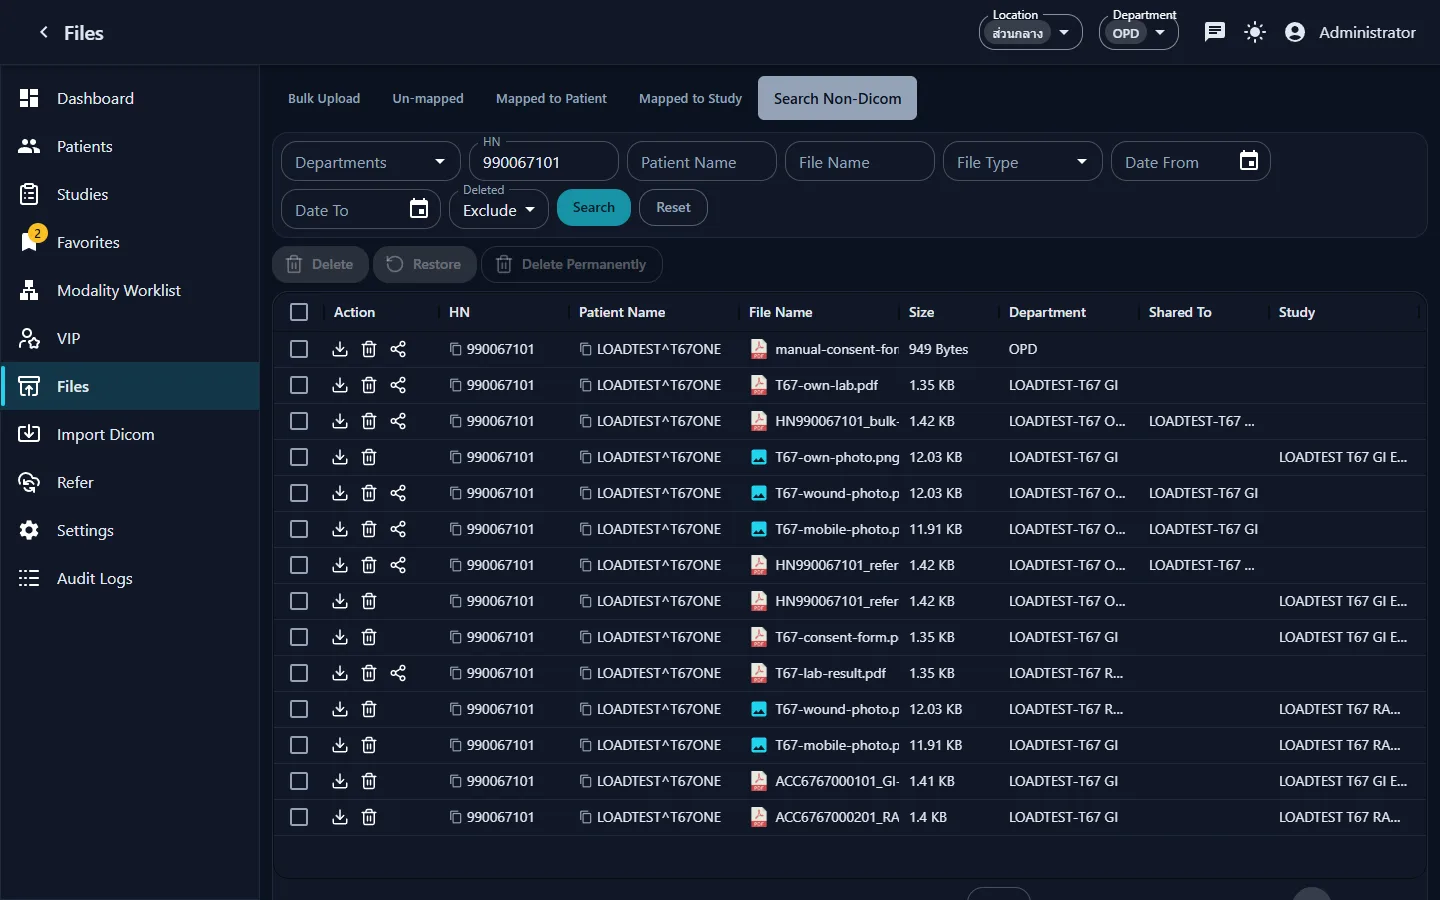
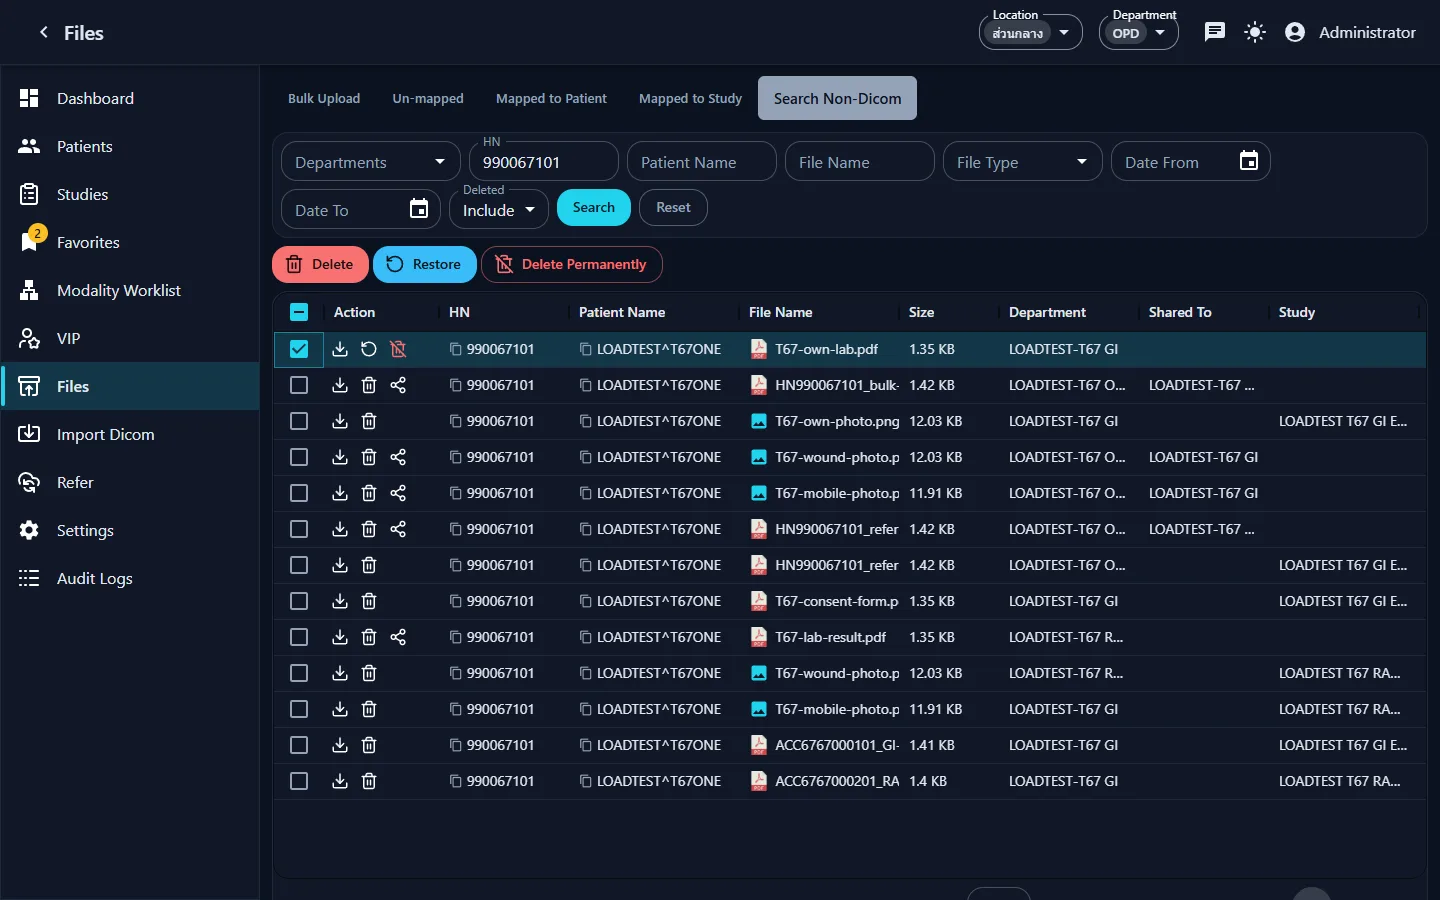
update

diff --git a/user_documentation/index.html b/user_documentation/index.html
@@ -72,6 +72,7 @@
     <symbol id="l-user-pen" viewBox="0 0 24 24" fill="none" stroke="currentColor" stroke-width="2" stroke-linecap="round" stroke-linejoin="round"><path d="M11.5 15H7a4 4 0 0 0-4 4v2"/><path d="M21.378 16.626a1 1 0 0 0-3.004-3.004l-4.01 4.012a2 2 0 0 0-.506.854l-.837 2.87a.5.5 0 0 0 .62.62l2.87-.837a2 2 0 0 0 .854-.506z"/><circle cx="10" cy="7" r="4"/></symbol>
     <symbol id="l-user-round-pen" viewBox="0 0 24 24" fill="none" stroke="currentColor" stroke-width="2" stroke-linecap="round" stroke-linejoin="round"><path d="M2 21a8 8 0 0 1 10.821-7.487"/><path d="M21.378 16.626a1 1 0 0 0-3.004-3.004l-4.01 4.012a2 2 0 0 0-.506.854l-.837 2.87a.5.5 0 0 0 .62.62l2.87-.837a2 2 0 0 0 .854-.506z"/><circle cx="10" cy="8" r="5"/></symbol>
     <symbol id="l-trash-2" viewBox="0 0 24 24" fill="none" stroke="currentColor" stroke-width="2" stroke-linecap="round" stroke-linejoin="round"><path d="M10 11v6"/><path d="M14 11v6"/><path d="M19 6v14a2 2 0 0 1-2 2H7a2 2 0 0 1-2-2V6"/><path d="M3 6h18"/><path d="M8 6V4a2 2 0 0 1 2-2h4a2 2 0 0 1 2 2v2"/></symbol>
+    <symbol id="l-trash-off" viewBox="0 0 24 24" fill="none" stroke="currentColor" stroke-width="2" stroke-linecap="round" stroke-linejoin="round"><path d="M10 11v6"/><path d="M14 17v-3"/><path d="M16 6V4a2 2 0 00-2-2h-4a2 2 0 00-1.576.768"/><path d="M19 6v7.344"/><path d="m2 2 20 20"/><path d="M21 6h-9.344"/><path d="M3 6h3"/><path d="M5 6v14a2 2 0 002 2h10a2 2 0 002-2v-1"/></symbol>
     <symbol id="l-share-2" viewBox="0 0 24 24" fill="none" stroke="currentColor" stroke-width="2" stroke-linecap="round" stroke-linejoin="round"><circle cx="18" cy="5" r="3"/><circle cx="6" cy="12" r="3"/><circle cx="18" cy="19" r="3"/><line x1="8.59" x2="15.42" y1="13.51" y2="17.49"/><line x1="15.41" x2="8.59" y1="6.51" y2="10.49"/></symbol>
     <symbol id="l-rotate-ccw" viewBox="0 0 24 24" fill="none" stroke="currentColor" stroke-width="2" stroke-linecap="round" stroke-linejoin="round"><path d="M3 12a9 9 0 1 0 9-9 9.75 9.75 0 0 0-6.74 2.74L3 8"/><path d="M3 3v5h5"/></symbol>
     <symbol id="l-download" viewBox="0 0 24 24" fill="none" stroke="currentColor" stroke-width="2" stroke-linecap="round" stroke-linejoin="round"><path d="M12 15V3"/><path d="M21 15v4a2 2 0 0 1-2 2H5a2 2 0 0 1-2-2v-4"/><path d="m7 10 5 5 5-5"/></symbol>
@@ -1080,8 +1081,8 @@
         <ul>
           <li>ตัวกรอง: Departments, HN, Patient Name, File Name, <b>File Type</b> (เลือกนามสกุล เช่น pdf, docx, jpg — จัดกลุ่มเป็นเอกสาร / รูปภาพ / วิดีโอ / เสียง), วันที่อัปโหลด, <b>Deleted</b> (Exclude / Include / Only — เห็นเมื่อมีสิทธิ์ลบหรือกู้คืน)</li>
           <li>คอลัมน์: Action, HN, Patient Name, File Name, Size, Department, Shared To, Study, Uploaded, Uploaded By, Status (ชิป <span class="chip r">Deleted</span> สำหรับไฟล์ในถังขยะ)</li>
-          <li>ปุ่มในแถว: <svg class="ic" aria-hidden="true"><use href="#l-download"/></svg> Download, <svg class="ic" aria-hidden="true"><use href="#l-trash-2"/></svg> ลบไฟล์, <svg class="ic" aria-hidden="true"><use href="#l-share-2"/></svg> แชร์ถึงแผนกอื่น (เฉพาะไฟล์ระดับผู้ป่วยของแผนกตัวเองที่ยังไม่ถูกลบ), <svg class="ic" aria-hidden="true"><use href="#l-rotate-ccw"/></svg> กู้คืนไฟล์, <svg class="ic c-err" aria-hidden="true"><use href="#l-trash-2"/></svg> ลบถาวร (ตามสถานะไฟล์และสิทธิ์)</li>
-          <li>ทำหลายไฟล์พร้อมกัน: ติ๊กแล้วกด <b class="ui"><svg class="ic" aria-hidden="true"><use href="#l-trash-2"/></svg> Delete</b> / <b class="ui"><svg class="ic" aria-hidden="true"><use href="#l-rotate-ccw"/></svg> Restore</b> / <b class="ui"><svg class="ic" aria-hidden="true"><use href="#l-trash-2"/></svg> Delete Permanently</b> — หน้าต่างยืนยันแยกรายการเป็น “จะ&lt;ทำ&gt; (n)” และ “&lt;ทำ&gt;ไม่ได้ (n)” พร้อมเหตุผล เช่น ถูกลบไปแล้ว · ไม่ได้ถูกลบอยู่ · ต้องลบชั่วคราวก่อน · ไฟล์ของแผนกอื่น — ดูได้อย่างเดียว</li>
+          <li>ปุ่มในแถว: <svg class="ic" aria-hidden="true"><use href="#l-download"/></svg> Download, <svg class="ic" aria-hidden="true"><use href="#l-trash-2"/></svg> ลบไฟล์, <svg class="ic" aria-hidden="true"><use href="#l-share-2"/></svg> แชร์ถึงแผนกอื่น (เฉพาะไฟล์ระดับผู้ป่วยของแผนกตัวเองที่ยังไม่ถูกลบ), <svg class="ic" aria-hidden="true"><use href="#l-rotate-ccw"/></svg> กู้คืนไฟล์, <svg class="ic c-err" aria-hidden="true"><use href="#l-trash-off"/></svg> ลบถาวร (ตามสถานะไฟล์และสิทธิ์)</li>
+          <li>ทำหลายไฟล์พร้อมกัน: ติ๊กแล้วกด <b class="ui"><svg class="ic" aria-hidden="true"><use href="#l-trash-2"/></svg> Delete</b> / <b class="ui"><svg class="ic" aria-hidden="true"><use href="#l-rotate-ccw"/></svg> Restore</b> / <b class="ui"><svg class="ic" aria-hidden="true"><use href="#l-trash-off"/></svg> Delete Permanently</b> — หน้าต่างยืนยันแยกรายการเป็น “จะ&lt;ทำ&gt; (n)” และ “&lt;ทำ&gt;ไม่ได้ (n)” พร้อมเหตุผล เช่น ถูกลบไปแล้ว · ไม่ได้ถูกลบอยู่ · ไฟล์ของแผนกอื่น — ดูได้อย่างเดียว · Delete Permanently ลบไฟล์ที่ยังไม่ได้กด Delete ได้ทันทีด้วย (ไม่ผ่านถังขยะ)</li>
         </ul>
         <figure class="narrow">
           <img src="img/files-bulk-restore.webp" alt="หน้าต่างกู้คืนไฟล์ที่เลือก" loading="lazy" />
@@ -1092,7 +1093,7 @@
             <tr><th>การทำงาน</th><th>ผล</th><th>สิทธิ์</th></tr>
             <tr><td>ลบไฟล์ (Delete)</td><td>ย้ายไปถังขยะ ซ่อนจากรายการ กู้คืนได้ภายใน 90 วัน (เกินแล้วระบบลบถาวรเอง)</td><td><span class="perm" title="non_dicom_files_delete">Files › Delete Non-Dicom Files</span></td></tr>
             <tr><td>กู้คืน (Restore)</td><td>ไฟล์กลับมาแสดงตามเดิม — ถ้าการตรวจของไฟล์ถูกลบอยู่ ต้องกู้คืนการตรวจก่อน</td><td><span class="perm" title="non_dicom_files_restore">Files › Restore Non-Dicom Files</span></td></tr>
-            <tr><td>ลบถาวร (Delete Permanently)</td><td>ลบออกจากที่จัดเก็บ <b>กู้คืนไม่ได้</b> — ทำได้กับไฟล์ที่ลบไปแล้ว (อยู่ในถังขยะ) เท่านั้น</td><td><span class="perm" title="non_dicom_files_delete">Files › Delete Non-Dicom Files</span></td></tr>
+            <tr><td>ลบถาวร (Delete Permanently)</td><td>ลบออกจากที่จัดเก็บ <b>กู้คืนไม่ได้</b> — ทำได้ทั้งไฟล์ในถังขยะและไฟล์ที่ยังไม่ได้ลบ (ไอคอนลบถาวรในแถวโผล่เฉพาะไฟล์ในถังขยะ — ไฟล์ที่ยังไม่ได้ลบให้ติ๊กแล้วกดปุ่ม Delete Permanently)</td><td><span class="perm" title="non_dicom_files_delete">Files › Delete Non-Dicom Files</span></td></tr>
           </table>
         </div>
         <div class="tip"><p>หาไฟล์ที่ลบไปแล้ว: ตั้ง <b>Deleted = Only</b> แล้วกด Search</p></div>
